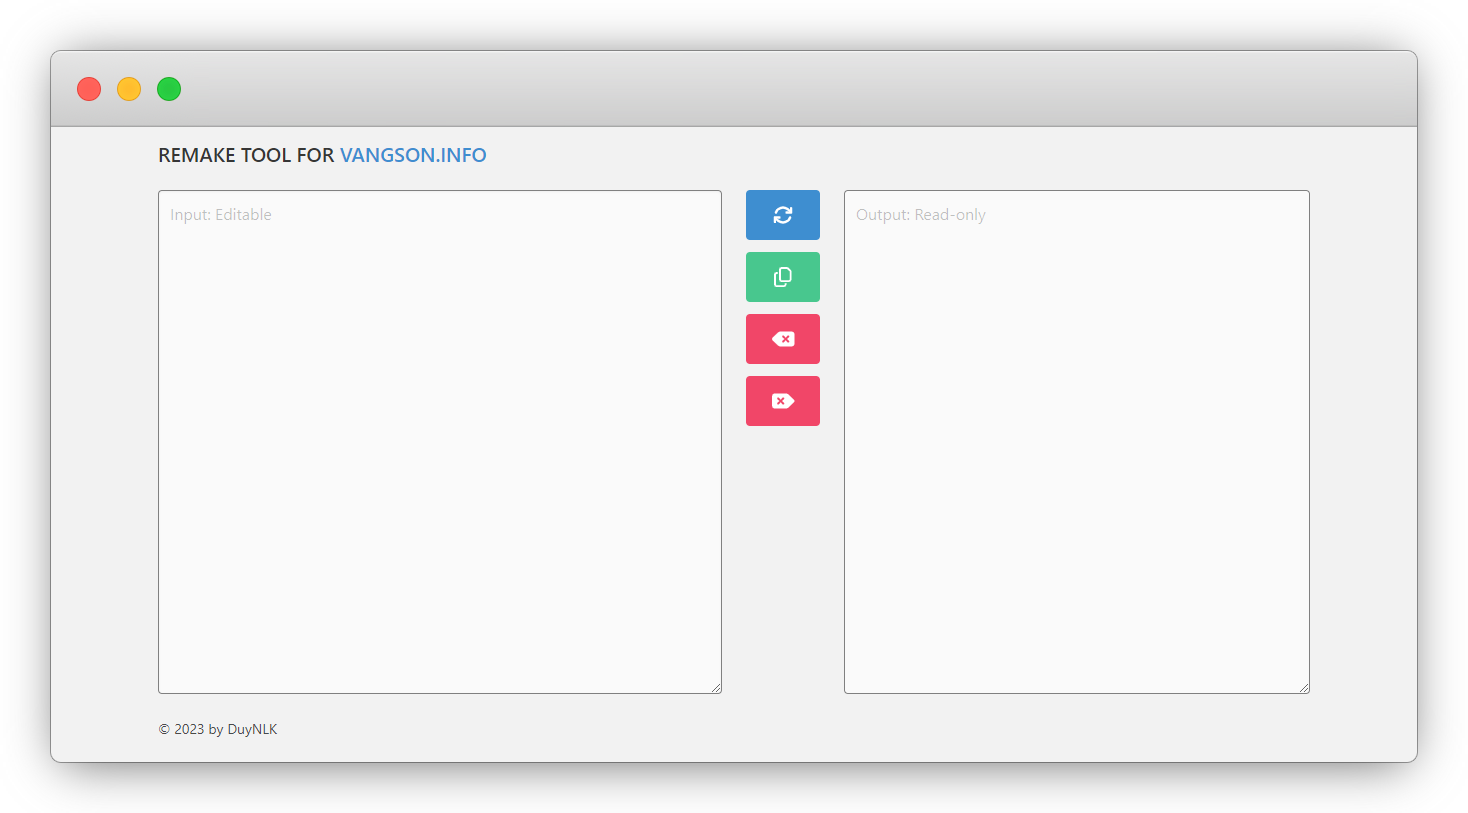
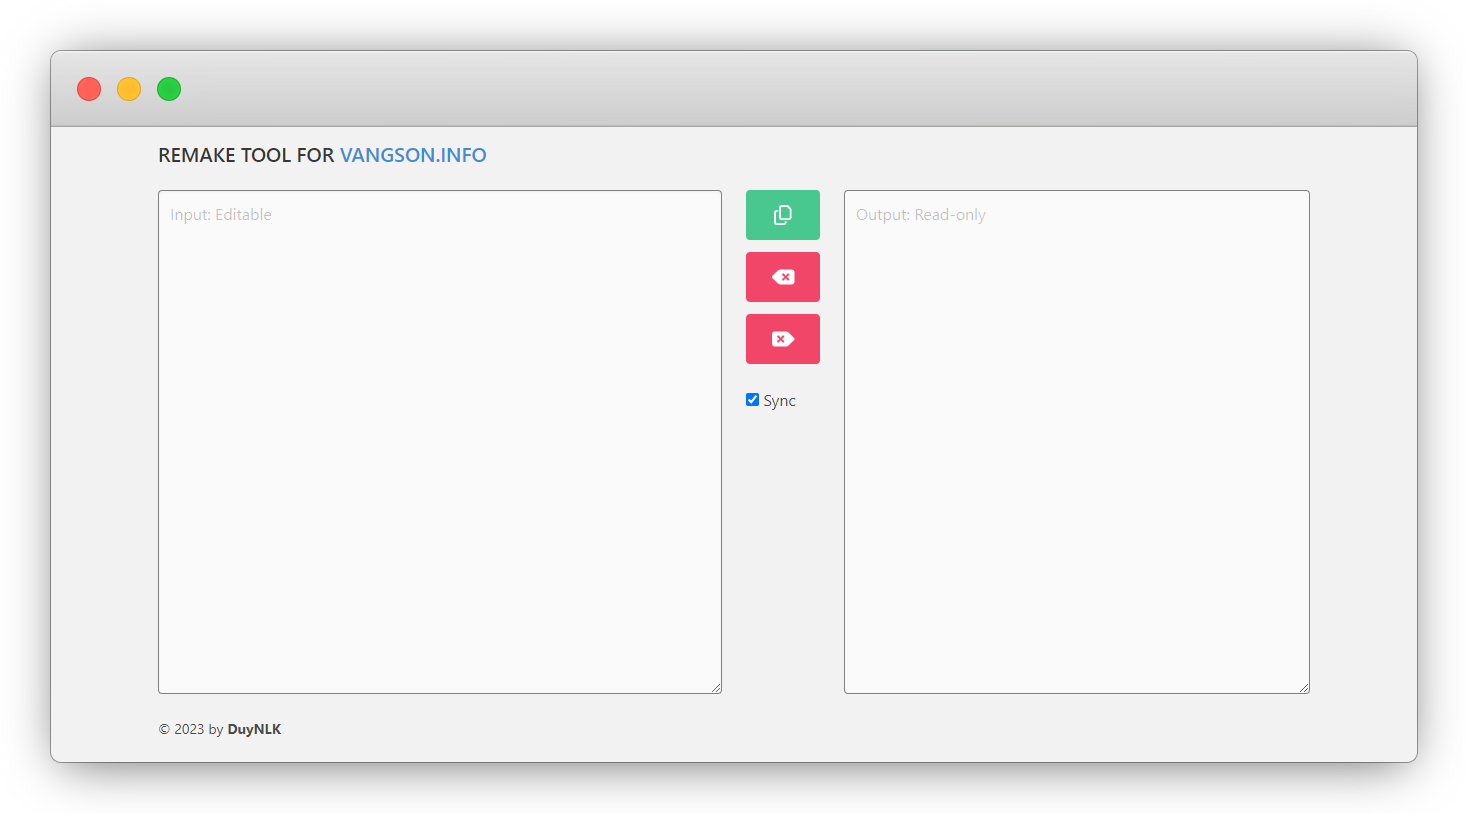
remove exchange button

diff --git a/custom/script.js b/custom/script.js
@@ -37,20 +37,26 @@ $(document).ready(function(){
 		}
 	});
 
-	// click button remake
-	$("#btn-remake").click(function(){
+	// change input-lyric
+	$("#input-lyric").on("input", function(){
 		var input = $("#input-lyric").val();
-		if(input != "") {
-			var output = handleRemakeLyric(input);
+		var output = handleRemakeLyric(input);
 
-			setTimeout(function(){
-				$("#output-lyric").val(output);
-			}, 200);
+		setTimeout(function(){
+			$("#output-lyric").val(output);
+		}, 200);
+	});
 
-			toastr.success('Remake done');
-		}else{
-			toastr.error('Input is null');
+	// scroll input-lyric
+	$("#input-lyric").on("scroll", function(){
+		if($("#sync-chk").is(":checked")){
+			syncScroll();
 		}
+	});
+
+	// click sync checkbox
+	$("#sync-chk").click(function(){
+		syncScroll();
 	});
 
 	function handleRemakeLyric(input) {
@@ -113,5 +119,10 @@ $(document).ready(function(){
 			strVal += str[chr].substring(0, 1).toUpperCase() + str[chr].substring(1, str[chr].length) + ' ';
 		}
 		return strVal.substring(0, strVal.length - 1);
+	}
+
+	function syncScroll() {
+		var scrollPos = $("#input-lyric").scrollTop();
+		$("#output-lyric").scrollTop(scrollPos);
 	}
 });

diff --git a/index.html b/index.html
@@ -29,9 +29,6 @@
 				</div>
 
 				<div class="column is-1">
-					<button id="btn-remake" class="button is-info mb-3">
-						<i class="fa-solid fa-arrows-rotate"></i>
-					</button>
 					<button id="btn-copy" class="button is-success mb-3">
 						<i class="fa-regular fa-copy"></i>
 					</button><br>
@@ -41,6 +38,7 @@
 					<button id="btn-clear-output" class="button is-danger mb-5">
 						<i class="fa-solid fa-delete-left" style="transform: rotate(180deg);"></i>
 					</button>
+					<input id="sync-chk" type="checkbox" checked> Sync
 				</div>
 
 				<div class="column is-5">
@@ -50,7 +48,7 @@
 
 			<!-- footer -->
 			<div>
-				<small>&copy; 2023 by DuyNLK</small>
+				<small>&copy; 2023 by <b>DuyNLK</b></small>
 			</div>
 		</div>
 	</body>

diff --git a/readme.md b/readme.md
@@ -3,10 +3,10 @@ Make the smooth lyrics for website https://vangson.info
 
 #### Button List:
 
-![arrows-rotate](img/arrows-rotate.svg) - Action to remake
+1. ![acopy](img/copy.svg) - Copy output to clipboard
 
-![acopy](img/copy.svg) - Copy output to clipboard
+2. ![delete-left](img/delete-left.svg) - Empty input/output
 
-![delete-left](img/delete-left.svg) - Empty input/output
+3. "Sync" checkbox: Sync scroll position of input/output
 
 ![capture](capture.png)
